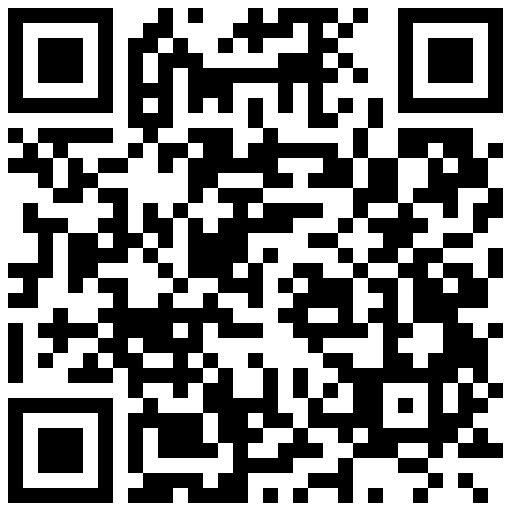
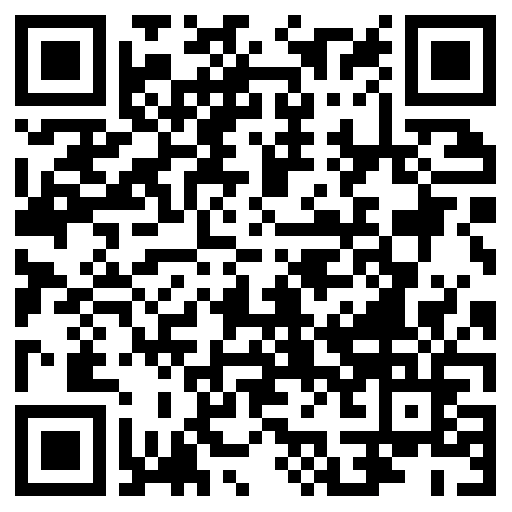
Update qr code & links

diff --git a/slides/Slides.md b/slides/Slides.md
@@ -33,7 +33,7 @@ _class: titlepage
 _footer: Photo by <a href="https://unsplash.com/@nosaka?utm_content=creditCopyText&utm_medium=referral&utm_source=unsplash">nikko osaka</a> on <a href="https://unsplash.com/photos/brown-and-red-shipping-containers-WzZjyThDoR8?utm_content=creditCopyText&utm_medium=referral&utm_source=unsplash">Unsplash</a>
 _paginate: false
 -->
-![bg left:40%](https://raw.githubusercontent.com/dmikusa/container-deep-dive-slides/refs/heads/main/slides/img/nikko-osaka-WzZjyThDoR8-unsplash.jpg)
+![bg left:40%](https://raw.githubusercontent.com/dmikusa/effortless-containerization-with-cnbs/refs/heads/main/slides/img/nikko-osaka-WzZjyThDoR8-unsplash.jpg)
 
 # Effortless Containerization with Cloud Native Buildpacks
 
@@ -82,12 +82,12 @@ While I'm not covering WiFi in this talk, if you're curious feel free to come ch
 
 <div class="center-img">
 
-![drop-shadow height:12em](https://raw.githubusercontent.com/dmikusa/container-deep-dive-slides/refs/heads/main/slides/img/qr-code.png)
+![drop-shadow height:12em](https://raw.githubusercontent.com/dmikusa/effortless-containerization-with-cnbs/refs/heads/main/slides/img/qr-code.png)
 
 </div>
 <div style="text-align: center; padding-top: 0.5em;">
 
-[https://github.com/dmikusa/container-deep-dive-slides]()
+[https://github.com/dmikusa/effortless-containerization-with-cnbs]()
 
 </div>
 
@@ -178,7 +178,7 @@ Technically:
 
 <div style="margin-top: 1.5em">
 
-![drop-shadow](https://raw.githubusercontent.com/dmikusa/buildpacks-for-ops/refs/heads/main/slides/img/buildpack-contents.png)
+![drop-shadow](https://raw.githubusercontent.com/dmikusa/effortless-containerization-with-cnbs/refs/heads/main/slides/img/buildpack-contents.png)
 
 </div>
 
@@ -241,7 +241,7 @@ Buildpacks can be customized in a number of ways to fit your needs, but let's st
 _footer: Photo by <a href="https://unsplash.com/@punttim?utm_source=unsplash&utm_medium=referral&utm_content=creditCopyText">Tim Gouw</a> on <a href="https://unsplash.com/photos/man-wearing-white-top-using-macbook-1K9T5YiZ2WU?utm_source=unsplash&utm_medium=referral&utm_content=creditCopyText">Unsplash</a>
 -->
 
-![bg right:40%](https://raw.githubusercontent.com/dmikusa/buildpacks-for-ops/refs/heads/main/slides/img/tim-gouw-1K9T5YiZ2WU-unsplash.jpg)
+![bg right:40%](https://raw.githubusercontent.com/dmikusa/effortless-containerization-with-cnbs/refs/heads/main/slides/img/tim-gouw-1K9T5YiZ2WU-unsplash.jpg)
 
 # Problems Solved: Dockerfiles
 
@@ -306,7 +306,7 @@ The great thing about Buildpacks is that you don't have to hope. The buildpack a
 _footer: Photo by <a href="https://unsplash.com/@seanpollock?utm_source=unsplash&utm_medium=referral&utm_content=creditCopyText">Sean Pollock</a> on <a href="https://unsplash.com/photos/low-angle-photo-of-city-high-rise-buildings-during-daytime-PhYq704ffdA?utm_source=unsplash&utm_medium=referral&utm_content=creditCopyText">Unsplash</a>
 -->
 
-![bg right:40%](https://raw.githubusercontent.com/dmikusa/buildpacks-for-ops/refs/heads/main/slides/img/sean-pollock-PhYq704ffdA-unsplash.jpg)
+![bg right:40%](https://raw.githubusercontent.com/dmikusa/effortless-containerization-with-cnbs/refs/heads/main/slides/img/sean-pollock-PhYq704ffdA-unsplash.jpg)
 
 # Enterprise Ready
 
@@ -351,7 +351,7 @@ Spring Boot
 
 <div style="position: absolute; top: 250px; right: 100px; z-index: 10;">
 
-![drop-shadow width:7em](https://raw.githubusercontent.com/dmikusa/buildpacks-for-ops/refs/heads/main/slides/img/choose31.jpg)
+![drop-shadow width:7em](https://raw.githubusercontent.com/dmikusa/effortless-containerization-with-cnbs/refs/heads/main/slides/img/choose31.jpg)
 
 </div>
 
@@ -389,12 +389,12 @@ If you're a Spring Boot user, you're in luck! The Spring team provides Maven and
 
 <div class="center-img">
 
-![drop-shadow height:12em](https://raw.githubusercontent.com/dmikusa/buildpacks-for-ops/refs/heads/main/slides/img/qr-code.png)
+![drop-shadow height:12em](https://raw.githubusercontent.com/dmikusa/effortless-containerization-with-cnbs/refs/heads/main/slides/img/qr-code.png)
 
 </div>
 <div style="text-align: center; padding-top: 0.5em;">
 
-[https://github.com/dmikusa/buildpacks-for-ops]()
+[https://github.com/dmikusa/effortless-containerization-with-cnbs]()
 
 </div>
 
